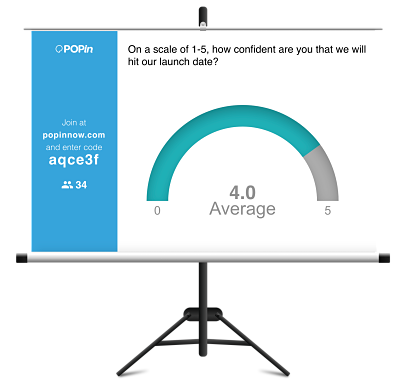
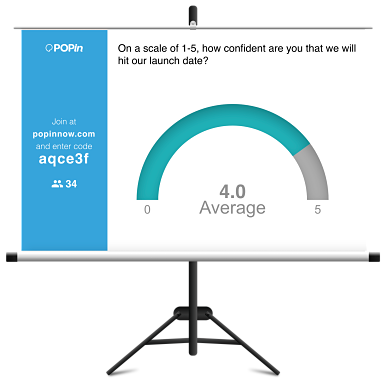
Gets the Projects page looking good

diff --git a/src/components/Projects.jsx b/src/components/Projects.jsx
@@ -6,7 +6,11 @@ import iepCaseStudy from "../img/Case_Study_IEP_Goal_Tracker.pdf";
 import popinLiveCaseStudy from "../img/Case_Study_POPin_Live.pdf";
 import streetArtTalksCaseStudy from "../img/Case_Study_Street_Art_Talks.pdf";
 import { FontAwesomeIcon } from "@fortawesome/react-fontawesome";
-import meetly_marketing_site from '../img/meetly_marketing_site.png'
+import meetly_marketing_site from "../img/meetly_marketing_site.png";
+import popin_projector_screen from "../img/popin_projector_screen.png";
+import iep_tasks_to_track_left from "../img/iep_tasks_to_track_left.png";
+import iep_evaluations_graph from "../img/iep_evaluations_graph.png";
+import my_students_right from "../img/my_students_right.png";
 
 class Projects extends React.Component {
   constructor(props) {
@@ -16,7 +20,7 @@ class Projects extends React.Component {
   render() {
     return (
       <div className="">
-        <div className="row">
+        <div className="row my-5">
           <a className="col-xs-12 col-md-6" href="https://www.runmeetly.com/">
             <img className="m-auto img-fluid" src={meetly_marketing_site} />
           </a>
@@ -34,12 +38,12 @@ class Projects extends React.Component {
             ]}
           />
         </div>
-
-        <div className="popin-live">
-          <div className="images">
-            <div className="projection-screen" />
-          </div>
+        <div className="row my-5">
+          <a className="col-xs-12 col-md-6 align-items-center" href="https://www.runmeetly.com/">
+            <img className="m-auto img-fluid" src={popin_projector_screen} />
+          </a>
           <ProjectCard
+            className="col-xs-12 col-md-6"
             title="POPin Live"
             subtitle="Design research for a live polling application"
             download={popinLiveCaseStudy}
@@ -55,14 +59,22 @@ class Projects extends React.Component {
             ]}
           />
         </div>
-
-        <Element name="iep" className={`iep-goal-tracker project-section`}>
-          <a className="images" href="http://www.iepgoaltracker.com/">
-            <div className="phone evaluations" />
-            <div className="phone login" />
-            <div className="phone students" />
+        <div className="row my-5">
+          <a className="col-xs-12 col-md-6" href="https://www.runmeetly.com/">
+            <div className="d-flex">
+              <div className="col">
+                <img src={iep_tasks_to_track_left} className="img-fluid" />
+              </div>
+              <div className="col-5 mx-n2">
+                <img src={iep_evaluations_graph} className="img-fluid" />
+              </div>
+              <div className="col">
+                <img src={my_students_right} className="img-fluid" />
+              </div>
+            </div>
           </a>
           <ProjectCard
+            className="col-xs-12 col-md-6"
             title="Special Ed Goal Tracker"
             subtitle="Streamlining data collection in the classroom"
             // link="https://medium.com/@jordanenelson/a-goal-tracking-app-for-students-with-special-needs-6fe5334d2a53"
@@ -75,7 +87,7 @@ class Projects extends React.Component {
               "The result was a mobile-friendly web app that makes it easy to log evaluations and track progress over time."
             ]}
           />
-        </Element>
+        </div>
 
         {/*<div className="street-art-talks project-section">*/}
         {/*<div className="images">*/}

diff --git a/src/components/Projects.scss b/src/components/Projects.scss
@@ -98,16 +98,10 @@
     }
   }
   .popin-live {
-    margin-top: 6rem;
-    display: flex;
-    flex-direction: row;
-    align-items: center;
-    justify-content: space-around;
     .images {
       display: flex;
       flex-direction: row;
       align-items: center;
-
 
       .projection-screen {
         width: 27rem;

diff --git a/src/App.js b/src/App.js
@@ -25,7 +25,7 @@ class App extends Component {
   render() {
     return (
       <Router>
-        <div className="bg-light">
+        <div className="bg-light d-flex flex-column flex-fill">
           <div className="bg-white">
             <Navbar />
           </div>
